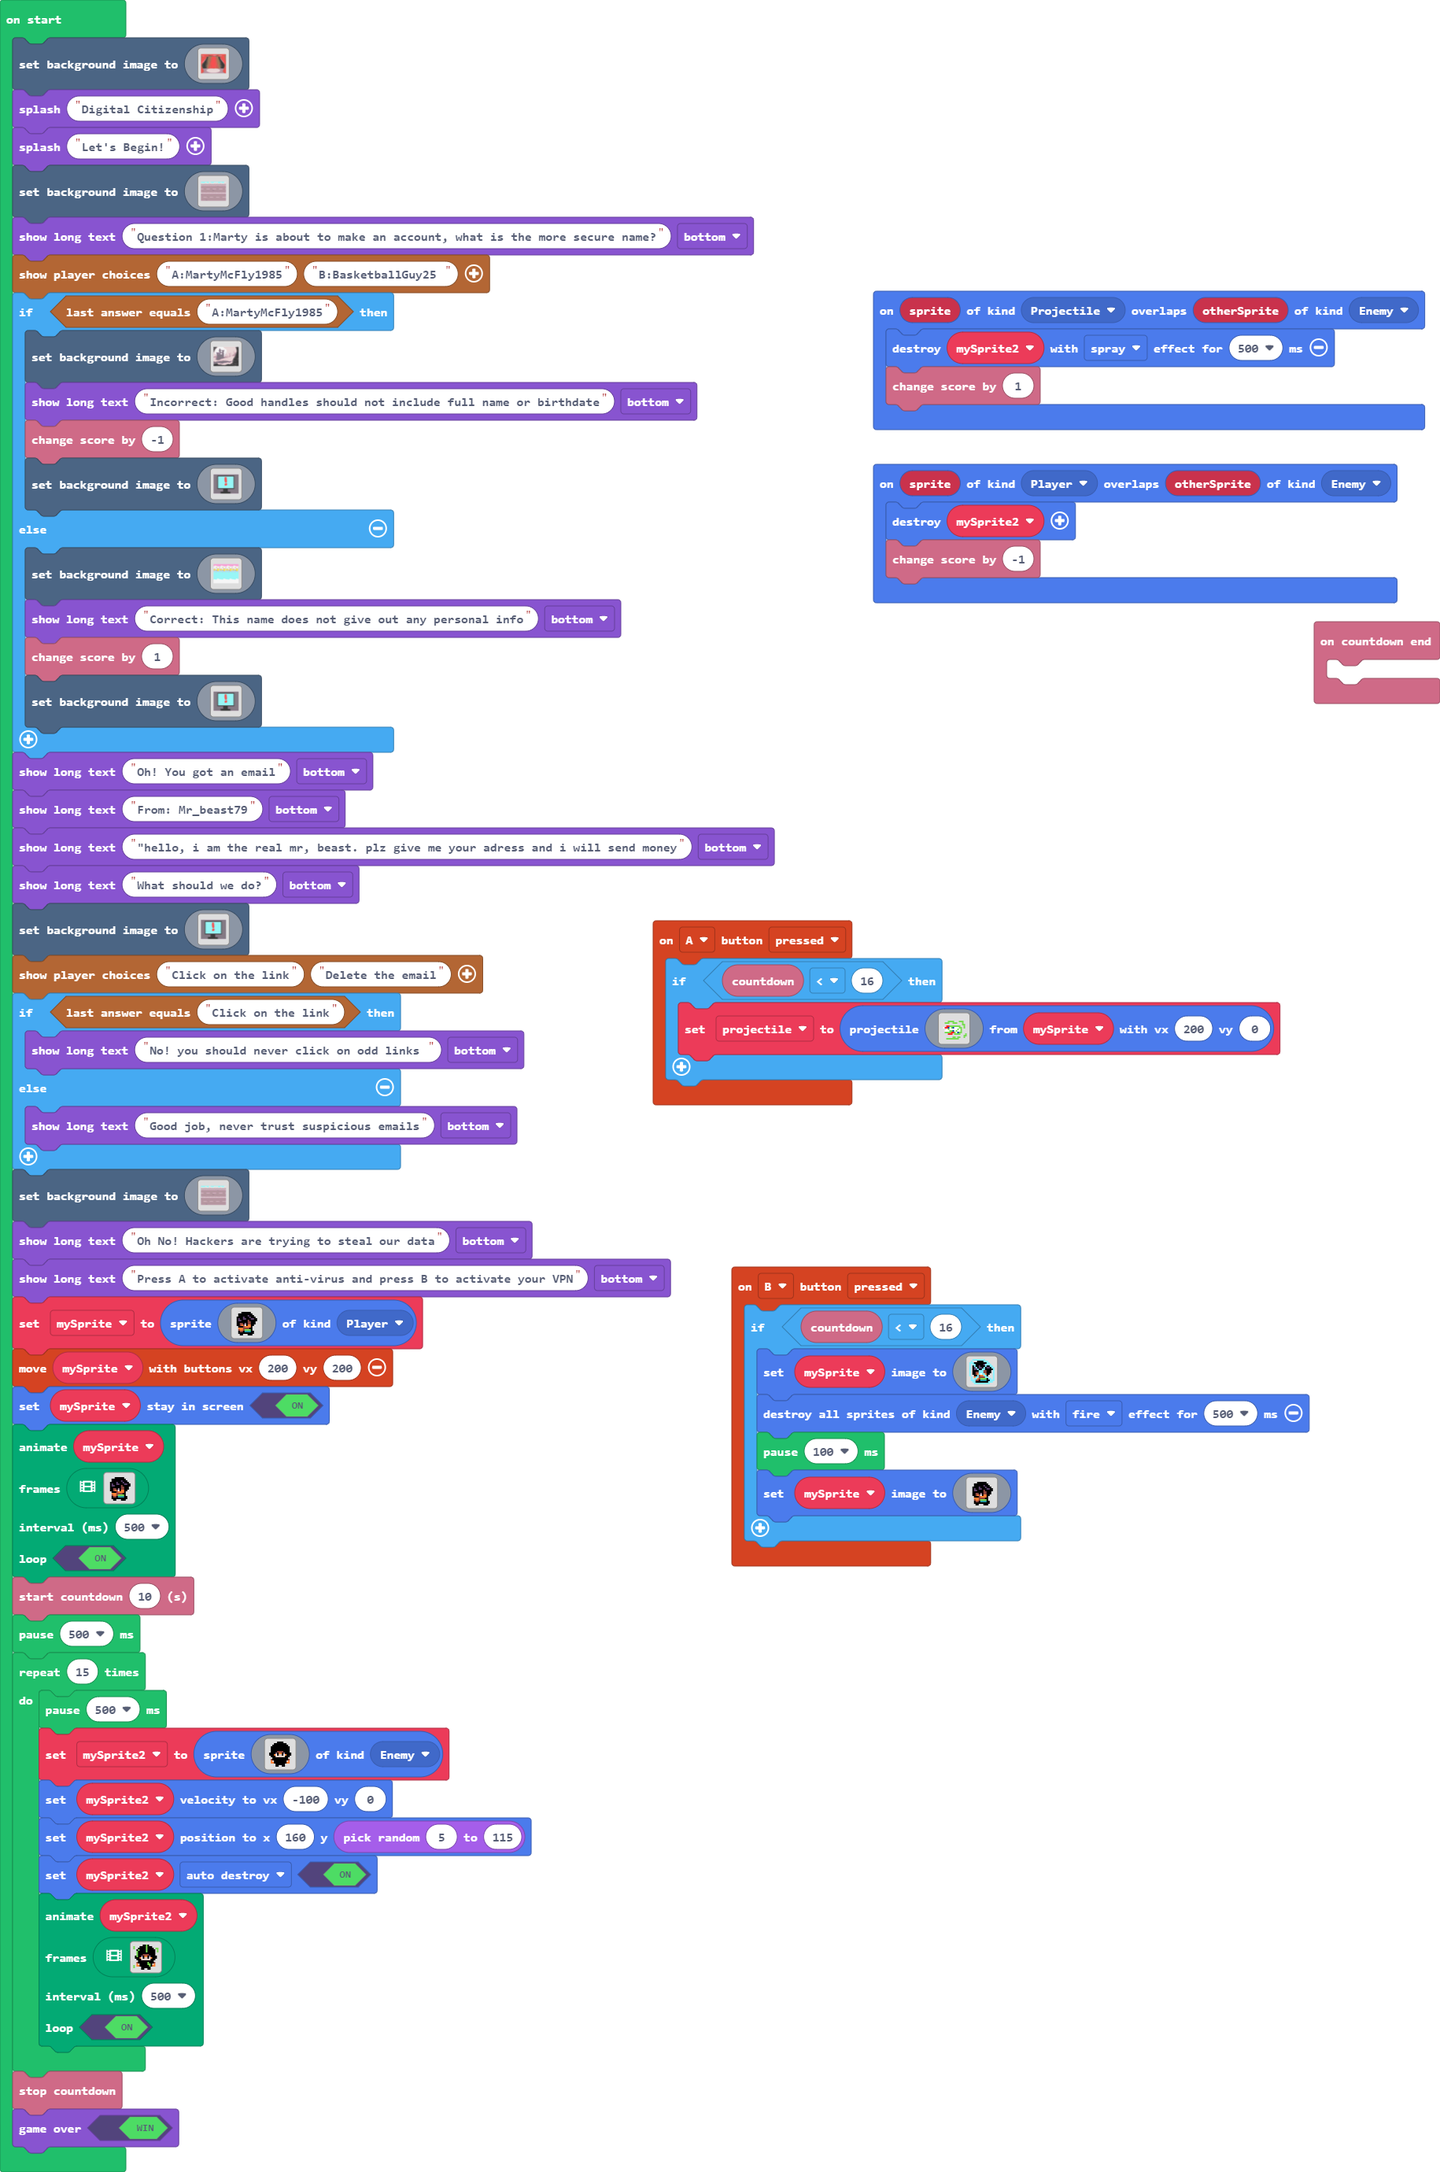
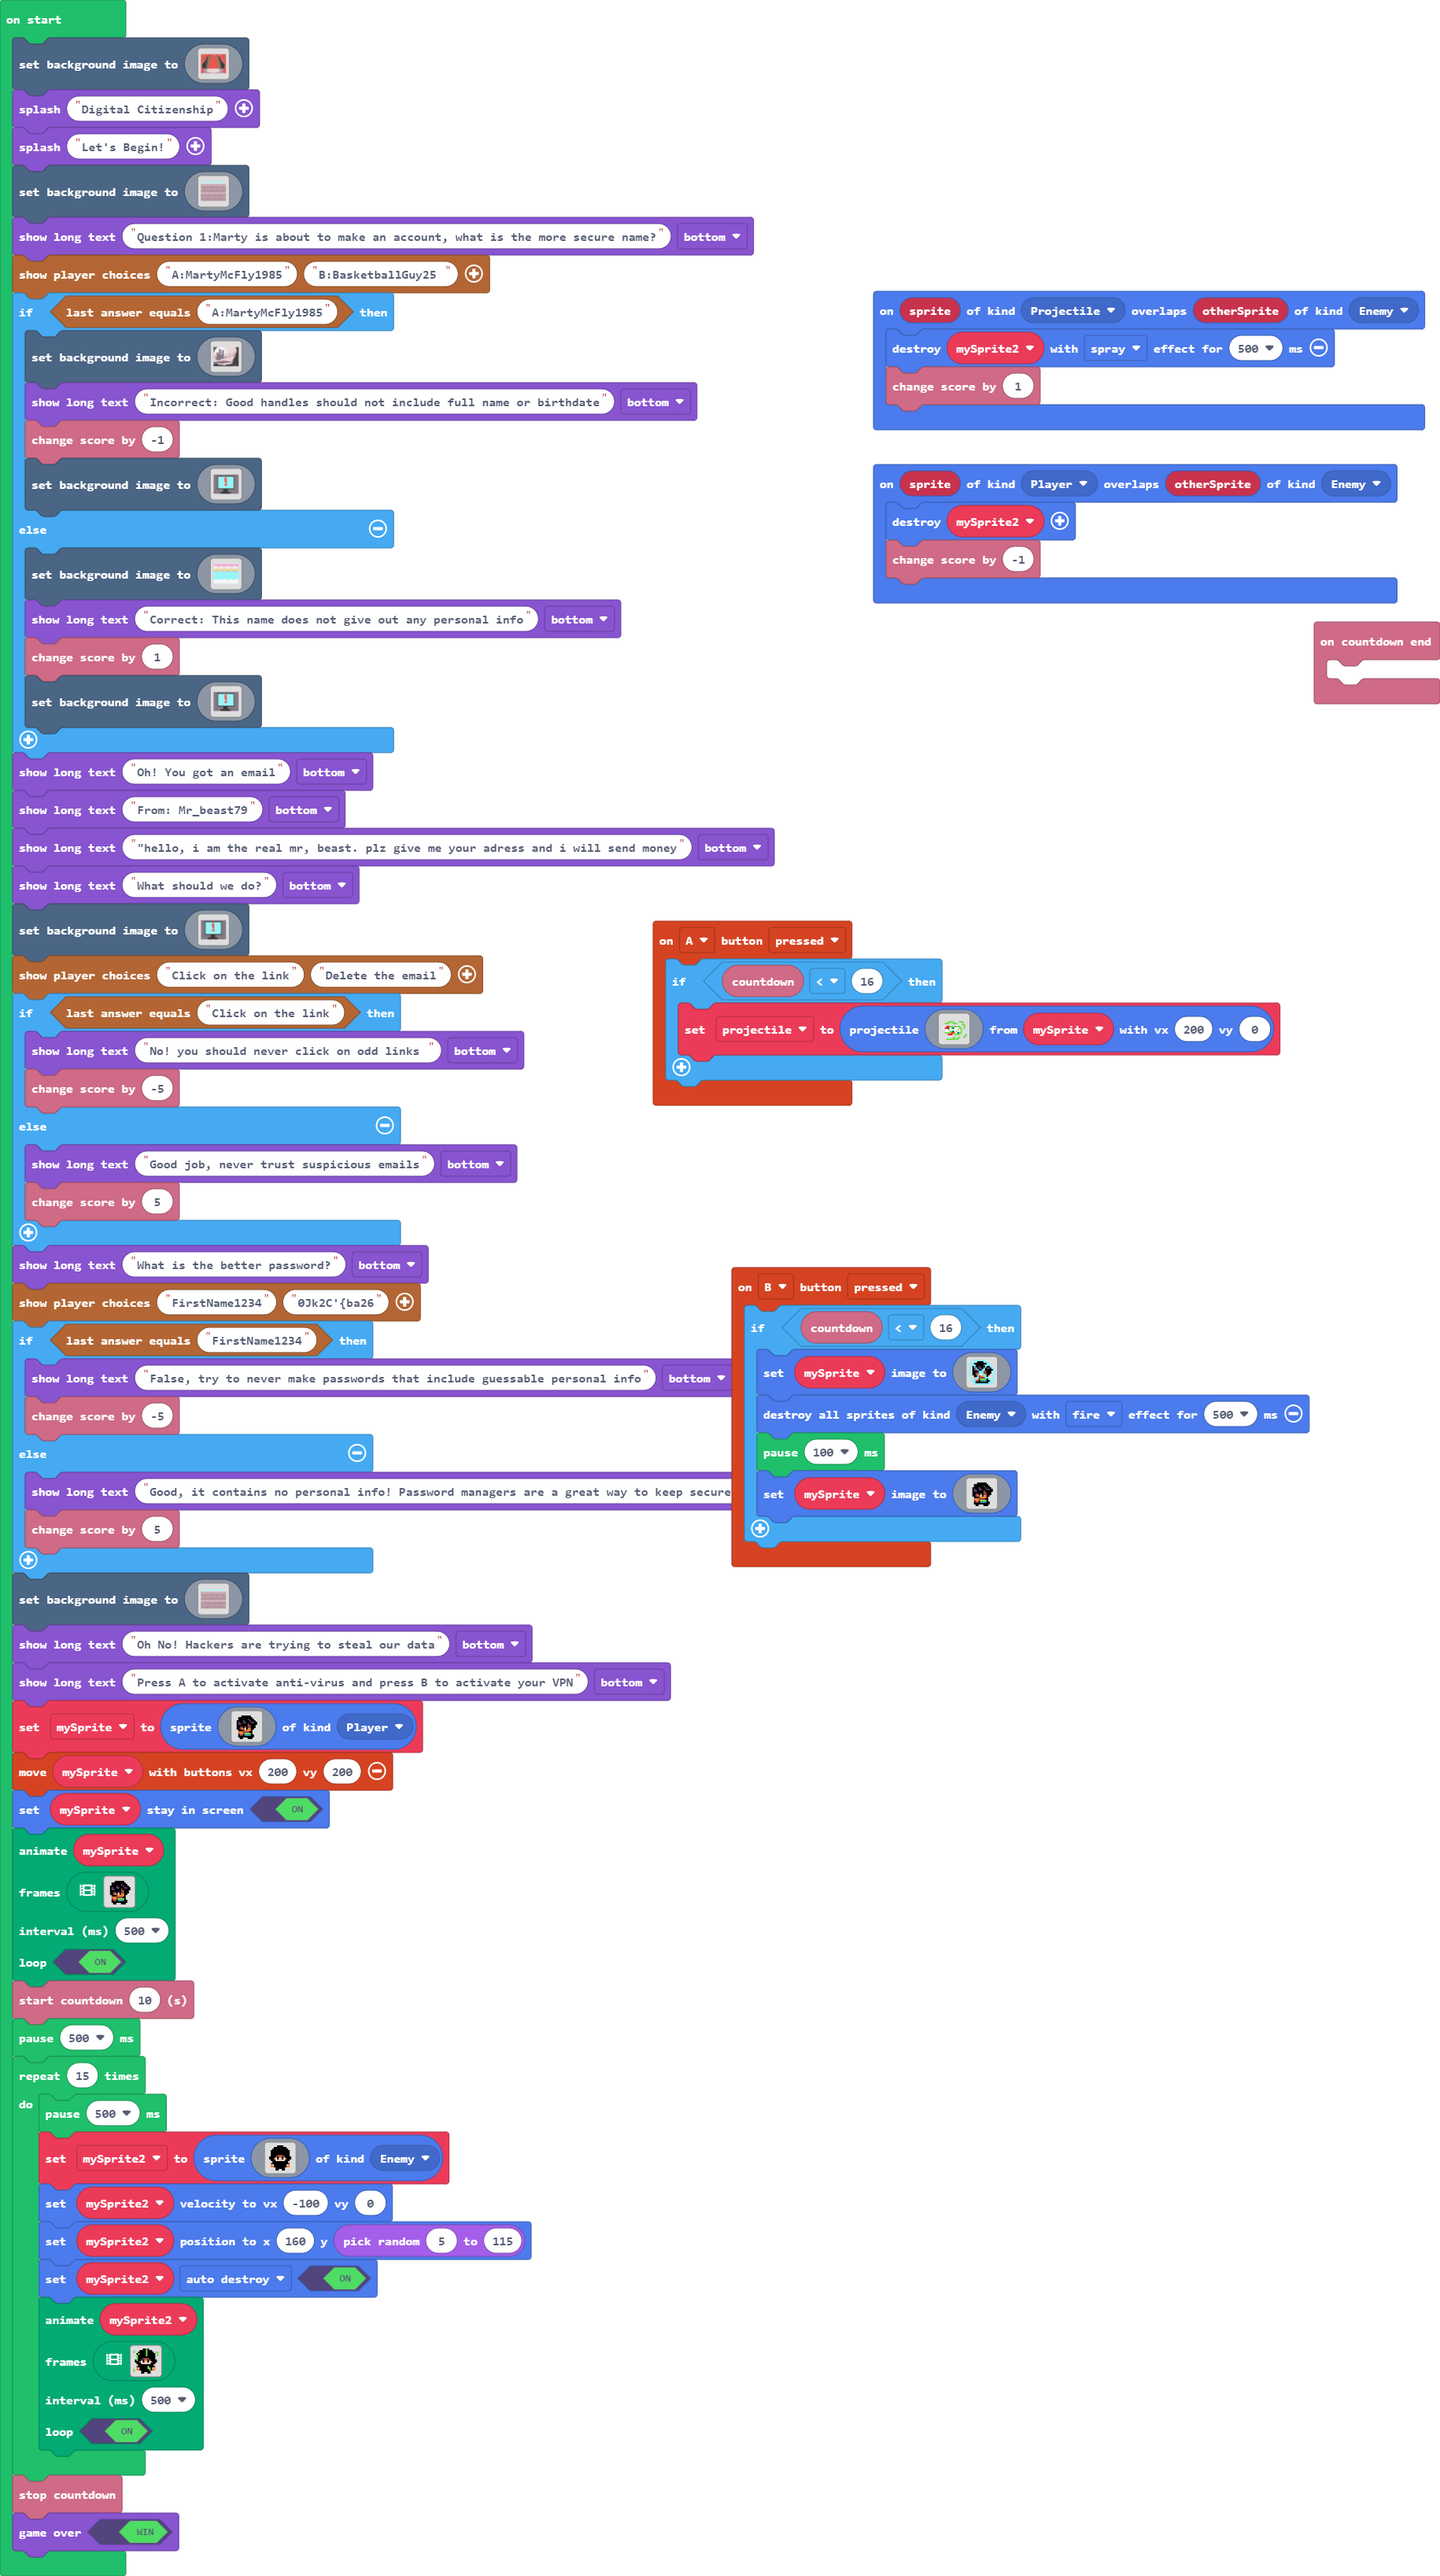
Update main.blocks, main.ts

diff --git a/main.ts b/main.ts
@@ -948,8 +948,19 @@ scene.setBackgroundImage(img`
 story.showPlayerChoices("Click on the link", "Delete the email")
 if (story.checkLastAnswer("Click on the link")) {
     game.showLongText("No! you should never click on odd links ", DialogLayout.Bottom)
+    info.changeScoreBy(-5)
 } else {
     game.showLongText("Good job, never trust suspicious emails", DialogLayout.Bottom)
+    info.changeScoreBy(5)
+}
+game.showLongText("What is the better password?", DialogLayout.Bottom)
+story.showPlayerChoices("FirstName1234", "0Jk2C'{ba26")
+if (story.checkLastAnswer("FirstName1234")) {
+    game.showLongText("False, try to never make passwords that include guessable personal info", DialogLayout.Bottom)
+    info.changeScoreBy(-5)
+} else {
+    game.showLongText("Good, it contains no personal info! Password managers are a great way to keep secure passwords", DialogLayout.Bottom)
+    info.changeScoreBy(5)
 }
 scene.setBackgroundImage(img`
     9999999999999999999999999999999999999999999999999999999999999999999999999999999999999999999999999999999999999999999999999999999999999999999999999999999999999999
